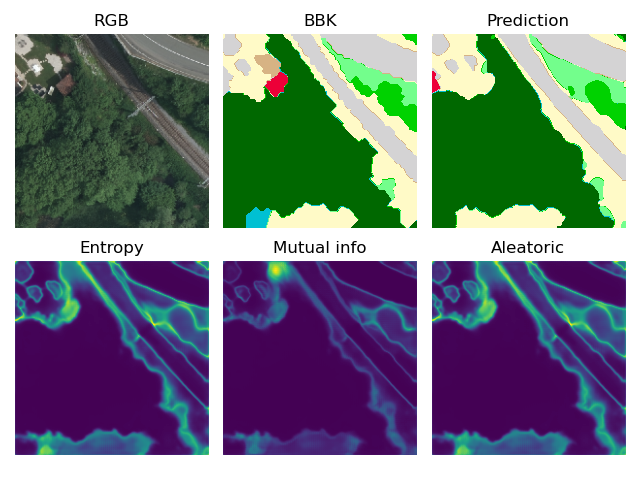
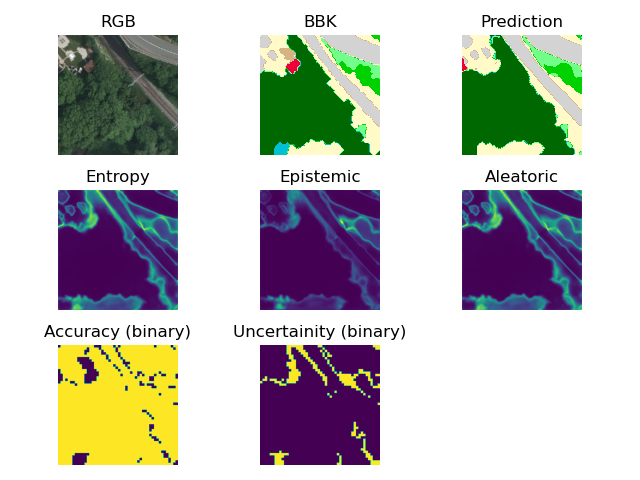
added binary maps

diff --git a/example_data_bayesian.py b/example_data_bayesian.py
@@ -105,8 +105,8 @@ for i in dl:
 			# fold uncertainity and accuracy matrices
 			acc_expanded = bool_acc_matrix.view(bool_acc_matrix.size(0),1,bool_acc_matrix.size(1)).expand(bool_acc_matrix.size(0),w_size**2,bool_acc_matrix.size(1))
 			uncert_expanded = bool_uncert_matrix.view(bool_uncert_matrix.size(0),1,bool_uncert_matrix.size(1)).expand(bool_uncert_matrix.size(0),w_size**2,bool_uncert_matrix.size(1))
-			bin_acc_map = fold(acc_expanded)
-			bin_uncert_map = fold(uncert_expanded)
+			bin_acc_map = fold(acc_expanded)[j][0]
+			bin_uncert_map = fold(uncert_expanded)[j][0]
 			
 			# data visualization
 			bbk = bbk.numpy()
